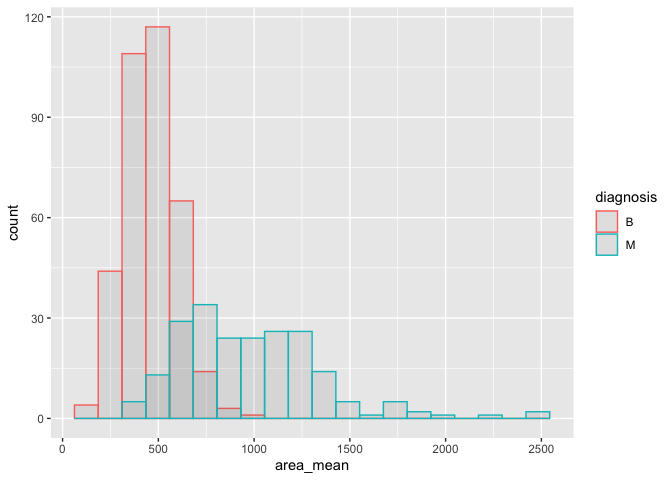
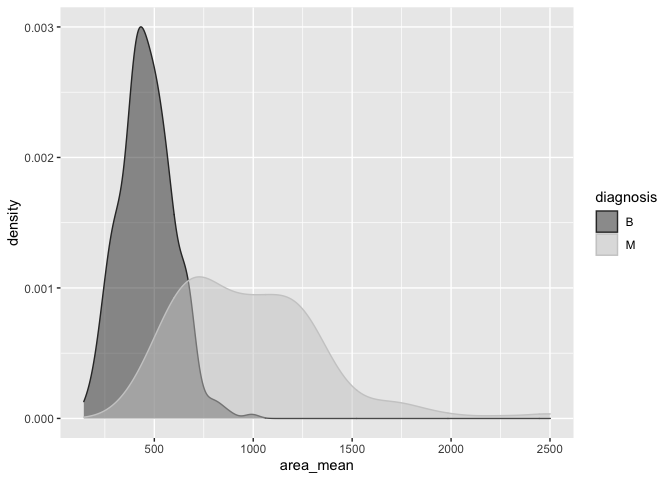
Milestone 1 WIP: make plots greyscale and completed all tasks

diff --git a/mini-project-1.md b/mini-project-1.md
@@ -32,11 +32,16 @@ Running this notebook’s source code requires the installation of the
     install.packages("devtools")
     devtools::install_github("UBC-MDS/datateachr")
 
+Also install the `ggcorrplot` package to visualize correlation matrices.
+
+    install.packages("ggcorrplot")
+
 We begin by loading the necessary packages.
 
 ``` r
 library(datateachr) # provides the datasets
 library(tidyverse) # provides data analysis libraries, including ggplot2, dplyr, and tibble
+library(ggcorrplot) # provides visualization for correlation matrices
 ```
 
 # Task 1: Choose your favourite dataset (10 points)
@@ -399,7 +404,10 @@ The exercises I will complete are 1, 3, 4, and 8.
 # Plotting a histogram of the area_mean column
 cancer_sample %>%
   ggplot(aes(x=area_mean)) + 
-  geom_histogram(bins=20, fill="white", colour="black")
+  geom_histogram(aes(y=..density..), bins=20, colour="black", fill="white") +
+  geom_density(fill="grey", alpha=0.5) +
+  scale_color_grey() +
+  scale_fill_grey()
 ```
 
 ![](mini-project-1_files/figure-gfm/unnamed-chunk-8-1.png)<!-- -->
@@ -407,13 +415,15 @@ cancer_sample %>%
 We see that mean area of nuclei in a single image is right-skewed, with
 the highest number of observations around 500 units squared.
 
-Let us also plot this histogram but coloured by diagnosis.
+Let us also plot the density curve coloured by diagnosis.
 
 ``` r
-# Plotting a histogram of the area_mean column, coloured by diagnosis
+# Plotting a density curve of the area_mean column, shaded by diagnosis
 cancer_sample %>%
-  ggplot(aes(x=area_mean, color=diagnosis)) + 
-  geom_histogram(alpha=0.1, bins=20, position="identity")
+  ggplot(aes(x=area_mean, colour=diagnosis, fill=diagnosis)) + 
+  geom_density(alpha=0.5) +
+  scale_color_grey() +
+  scale_fill_grey() 
 ```
 
 ![](mini-project-1_files/figure-gfm/unnamed-chunk-9-1.png)<!-- -->
@@ -447,38 +457,118 @@ Let’s look at the relationship between `compactness_mean` and
 `area_mean`.
 
 ``` r
-# Scatter plot between compactness_mean and area_mean, coloured by diagnosis
+# Scatter plot between compactness_mean and area_mean
 cancer_sample %>%
-  ggplot(aes(x = compactness_mean, y = area_mean, color = diagnosis)) + 
+  ggplot(aes(x = area_mean, y = compactness_mean)) + 
   geom_point(alpha = 0.5)
 ```
 
 ![](mini-project-1_files/figure-gfm/unnamed-chunk-11-1.png)<!-- -->
 
-### 2.1.4 Chosen Exercise 4 (8): Density plot of one variable
+The above scatter plot shows us that there is a positive correlation
+between `area_mean` and `compactness_mean`, with a high density of
+points between 0 and 0.1 compactness, and 0 and 1000 area.
+
+Let us also plot this relationship for each
+diagnosis.
+
+``` r
+# Scatter plot between compactness_mean and area_mean, faceted by diagnosis
+cancer_sample %>%
+  ggplot(aes(x = area_mean, y = compactness_mean)) + 
+  facet_grid(cols=vars(diagnosis)) +
+  geom_point(alpha = 0.5)
+```
+
+![](mini-project-1_files/figure-gfm/unnamed-chunk-12-1.png)<!-- -->
+
+Once again, we see that there is greater variation of area and
+compactness combinations among malignant (M) diagnoses, while benign (B)
+images have a smaller variance. In the benign figure, the area is
+centered around 500, and the compactness around 0.07, with a few clear
+outliers. On the other hand, in the malignant figure, the data points
+are much more spread out but still show an overall slight positive
+correlation between area and compactness.
+
+We can use a correlation matrix to visualize the relationship between
+each pair of variables. For this visualization, let us only consider the
+mean values.
+
+``` r
+mean_values <- select(cancer_sample, ends_with("_mean"))
+corr_values <- round(cor(mean_values), 1)
+ggcorrplot(corr_values, colors=c("white", "grey", "black"))
+```
+
+![](mini-project-1_files/figure-gfm/unnamed-chunk-13-1.png)<!-- -->
+\#\#\# 2.1.4 Chosen Exercise 4 (8): Density plot of one variable
 
 *Exercise 8: Use a density plot to explore any of your variables (that
 are suitable for this type of plot).*
 
-TODO
+We’ve already looked at how the `area_mean` column is distributed. Let
+us now look at the `area_worst` column.
+
+``` r
+# Plotting a histogram and density of the area_worst column
+cancer_sample %>%
+  ggplot(aes(x=area_worst)) + 
+  geom_histogram(aes(y=..density..), bins=20, colour="black", fill="white") +
+  geom_density(fill="grey", alpha=0.5) +
+  scale_color_grey() +
+  scale_fill_grey()
+```
+
+![](mini-project-1_files/figure-gfm/unnamed-chunk-14-1.png)<!-- -->
+
+As we saw in the previous figures related to area, we see the highest
+density of observations with area around 500.
+
+Let us also look at how `area_worst` differs by diagnosis.
+
+``` r
+# Plotting a density curve of the area_worst column, shaded by diagnosis
+cancer_sample %>%
+  ggplot(aes(x=area_worst, colour=diagnosis, fill=diagnosis)) + 
+  geom_density(alpha=0.5) +
+  scale_color_grey() +
+  scale_fill_grey() 
+```
+
+![](mini-project-1_files/figure-gfm/unnamed-chunk-15-1.png)<!-- -->
+
+As expected, we see similar results to the `area_mean` column, with
+benign (B) images having `area_worst` less spread out and more tightly
+centered than malignant (M) images.
 
 ## 2.2 Explanation for chosen exercises
 
-**Exercise 1:** The dataset is almost entire quantitative, with each
-quantity describing a feature of an image of nuclei present in fine
-needle aspiration biopsies of breast masses. Hence, looking at the
-distribution of these features will give us a better idea of which might
-be random, and which might have higher predictive power.
+**Exercise 1:** All variables other than `diagnosis` were quantitative,
+so it makes sense to look at the distributions of any of the variables.
+Since the outcome (`diagnosis`) is binary, it also makes sense to
+compare the distributions of each quantitative variable across the two
+outcomes.
 
-**Exercise 3:** TODO
+**Exercise 3:** The `cancer_sample` dataset contains observed
+measurements from images of nuclei. I thought it was important to check
+for missing values, since it’s possible that some measurements were not
+recorded or could not be obtained from a single image. Thankfully, there
+are no missing values in our dataset.
 
-**Exercise 4:** TODO
+**Exercise 4:** As all the measurements within an observation come from
+the same image, it makes sense to look at the relationships between
+those measurements. For instance, looking at the relationship between
+`area_mean` and `compactness_mean` across each outcome can give us an
+idea of what benign tissue masses might look like, compared to
+malignant. Constructing a correlation matrix to show the relationship
+between each pair of variables would also be helpful in understanding
+how the measurements relate to one another.
 
-**Exercise 8:** TODO
+**Exercise 8:** All variables other than `diagnosis` are continuous in
+nature, so creating a density plot for any of them makes sense to
+visualize the distribution.
 
 # Task 3: Write your research questions (5 points)
-
-TODO: these aren’t finalized
 
 1.  What are the relationships between each individual nucleus
     measurement and the diagnosis outcome? For example, is a larger
